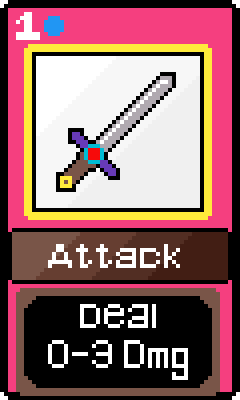
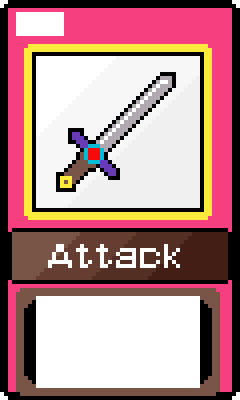
implemented card select and unselect

Changed region(s): [[0.1458, 0.72, 0.8458, 0.99], [0.0583, 0.03, 0.2917, 0.12]]

diff --git a/game.c b/game.c
@@ -9,7 +9,8 @@ CardType hand[5];
 CardType deck[10];
 int handRng[5];
 int handCheck[5] = {0,0,0,0,0};
-int mana = 3;
+int selectedCheck[5] = { 0,0,0,0,0 };
+int mana = 5;
 CP_Image handU[5][3];
 CP_Image handS[5][3];
 
@@ -76,16 +77,27 @@ void Game_Update(void)
 
 	float cardWidth = 200;
 	int selectedCount = 0;
+	float cardWidthS = 350;
+	//get total number of selected cards
 	for (int i = 0; i < 5; i++) {
 		if (handCheck[i] == 1) {
 			selectedCount += 1;
 		}
 	}
+	//show confirm button 
 	if (selectedCount > 0) {
-		CP_Image_Draw(CP_Image_Load("Assets/confirmButton1.png"), 850, 425, 200, 50, 255); //card base
+		CP_Image_Draw(CP_Image_Load("Assets/confirmButton1.png"), 850, 425, 200, 50, 255);
 
 	}
-	float cardWidthS = 350;
+	//know the index of selected card
+	int sCheck = 0;
+	for (int i = 0; i < 5; i++) {
+		if (handCheck[i] == 1) {
+			selectedCheck[sCheck] = i;
+			sCheck += 1;
+		}
+	}
+	//draw card image based on selected and unselected
 	for (int i = 0; i < 5; i++) {
 		if (handCheck[i] == 1) {
 			cardWidthS = 1000 / (float)(selectedCount + 1) + cardWidthS;
@@ -101,6 +113,28 @@ void Game_Update(void)
 		cardWidth = cardWidth + 300;
 	}
 
+	cardWidthS = 350; //redeclare card width selected
+
+	//click on selected card and bring down
+	if (selectedCount > 0) {
+		for (int i = 0; i < selectedCount; i++) {
+			if (CP_Input_GetMouseX() >= 1000 / (float)(selectedCount + 1) + cardWidthS - 100 && CP_Input_GetMouseX() <= 1000 / (float)(selectedCount + 1) + cardWidthS + 100) {
+				if (CP_Input_GetMouseY() >= 150 && CP_Input_GetMouseY() <= 450) {
+					if (CP_Input_MouseClicked()) {						
+						//mana, selected count, handCheck
+						mana += hand[selectedCheck[i]].mana;
+						selectedCount -= 1;
+						handCheck[selectedCheck[i]] = 0;
+					}
+				}
+			}
+			
+			cardWidthS = 1000 / (float)(selectedCount + 1) + cardWidthS;
+		}
+	}
+	
+	
+
 	//click on card 1
 	if (CP_Input_GetMouseX() >= 100 && CP_Input_GetMouseX() <= 300)
 	{
@@ -111,12 +145,9 @@ void Game_Update(void)
 				if (hand[0].mana < mana) {				
 					if (handCheck[0] == 0) {
 						handCheck[0] = 1;
-						mana = mana - hand[0].mana;
+						mana -= hand[0].mana;
 					}
-					else {
-						handCheck[0] = 1;
-						mana = mana + hand[0].mana;
-					}
+					
 					
 				}
 			}
@@ -129,13 +160,11 @@ void Game_Update(void)
 		{
 			if (CP_Input_MouseClicked())
 			{
-				if (handCheck[1] == 0) {
-					handCheck[1] = 1;
-					mana = mana - hand[1].mana;
-				}
-				else {
-					handCheck[1] = 1;
-					mana = mana + hand[1].mana;
+				if (hand[1].mana < mana) {
+					if (handCheck[1] == 0) {
+						handCheck[1] = 1;
+						mana -= hand[1].mana;
+					}
 				}
 				
 			}
@@ -148,15 +177,13 @@ void Game_Update(void)
 		{
 			if (CP_Input_MouseClicked())
 			{
-				if (handCheck[2] == 0) {
-					handCheck[2] = 1;
-					mana = mana - hand[2].mana;
+				if (hand[2].mana < mana) {
+					if (handCheck[2] == 0) {
+						handCheck[2] = 1;
+						mana -= hand[2].mana;
+					}
+
 				}
-				else {
-					handCheck[2] = 1;
-					mana = mana + hand[2].mana;
-				}
-				
 			}
 		}
 	}
@@ -167,13 +194,11 @@ void Game_Update(void)
 		{
 			if (CP_Input_MouseClicked())
 			{
-				if (handCheck[3] == 0) {
-					handCheck[3] = 1;
-					mana = mana - hand[3].mana;
-				}
-				else {
-					handCheck[3] = 1;
-					mana = mana + hand[3].mana;
+				if (hand[3].mana < mana) {
+					if (handCheck[3] == 0) {
+						handCheck[3] = 1;
+						mana -= hand[3].mana;
+					}
 				}
 				
 			}
@@ -186,15 +211,13 @@ void Game_Update(void)
 		{
 			if (CP_Input_MouseClicked())
 			{
-				if (handCheck[4] == 0) {
-					handCheck[4] = 1;
-					mana = mana - hand[4].mana;
+				if (hand[4].mana < mana) {
+					if (handCheck[4] == 0) {
+						handCheck[4] = 1;
+						mana -= hand[4].mana;
+					}
+
 				}
-				else {
-					handCheck[4] = 1;
-					mana = mana + hand[4].mana;
-				}
-				
 			}
 		}
 	}
